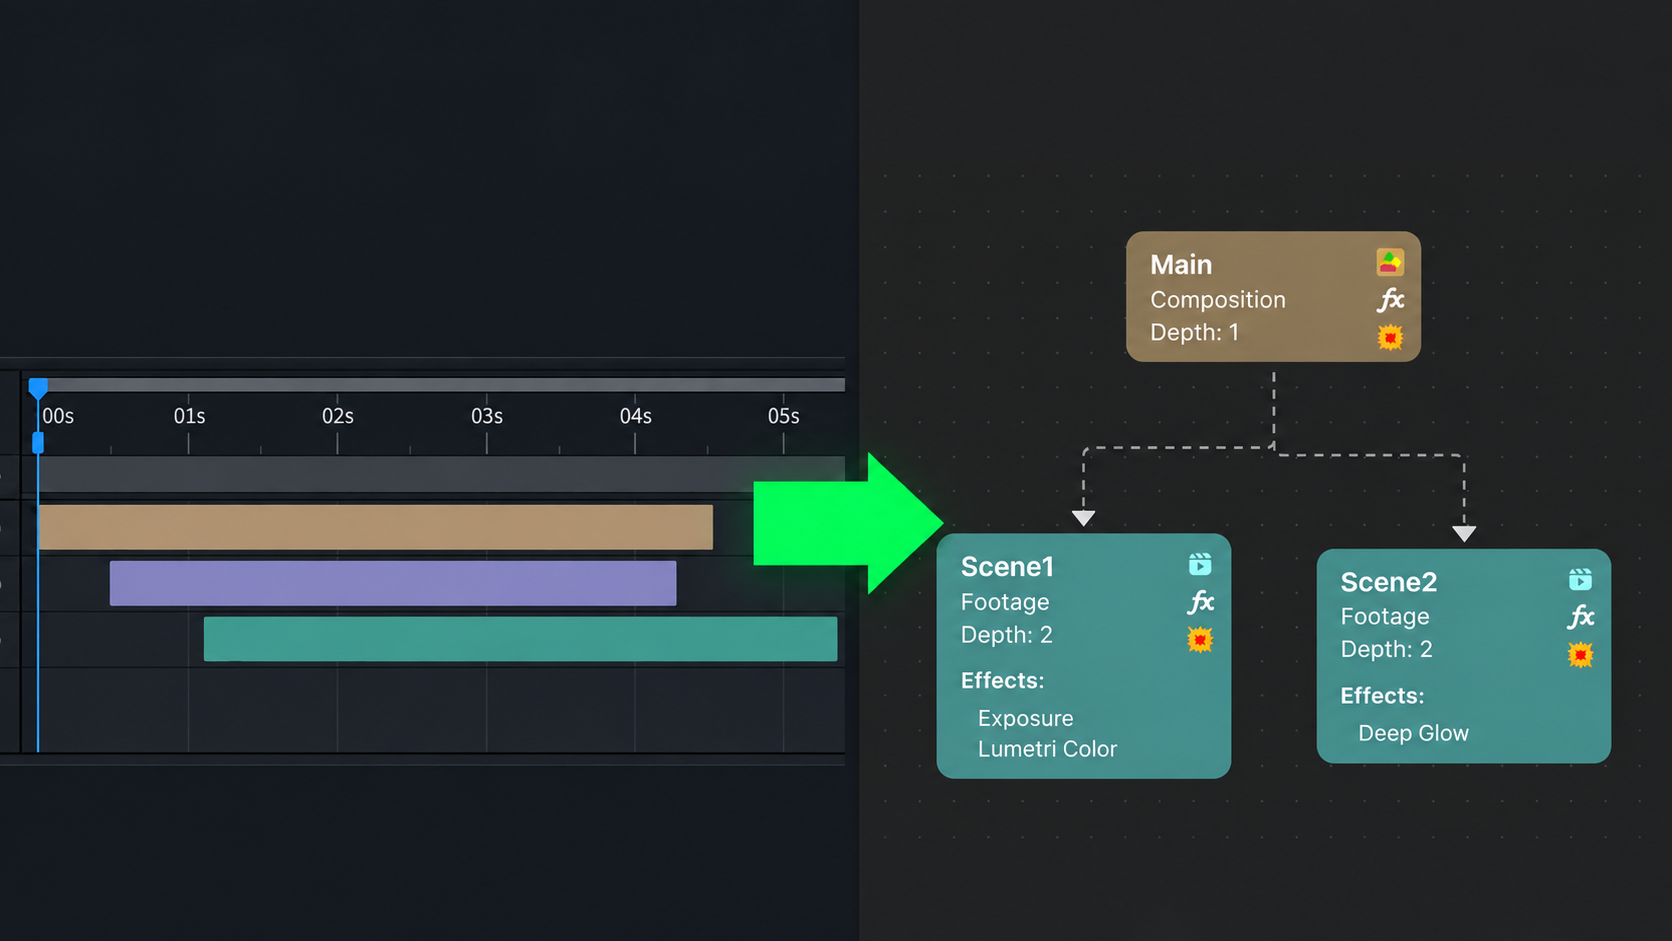
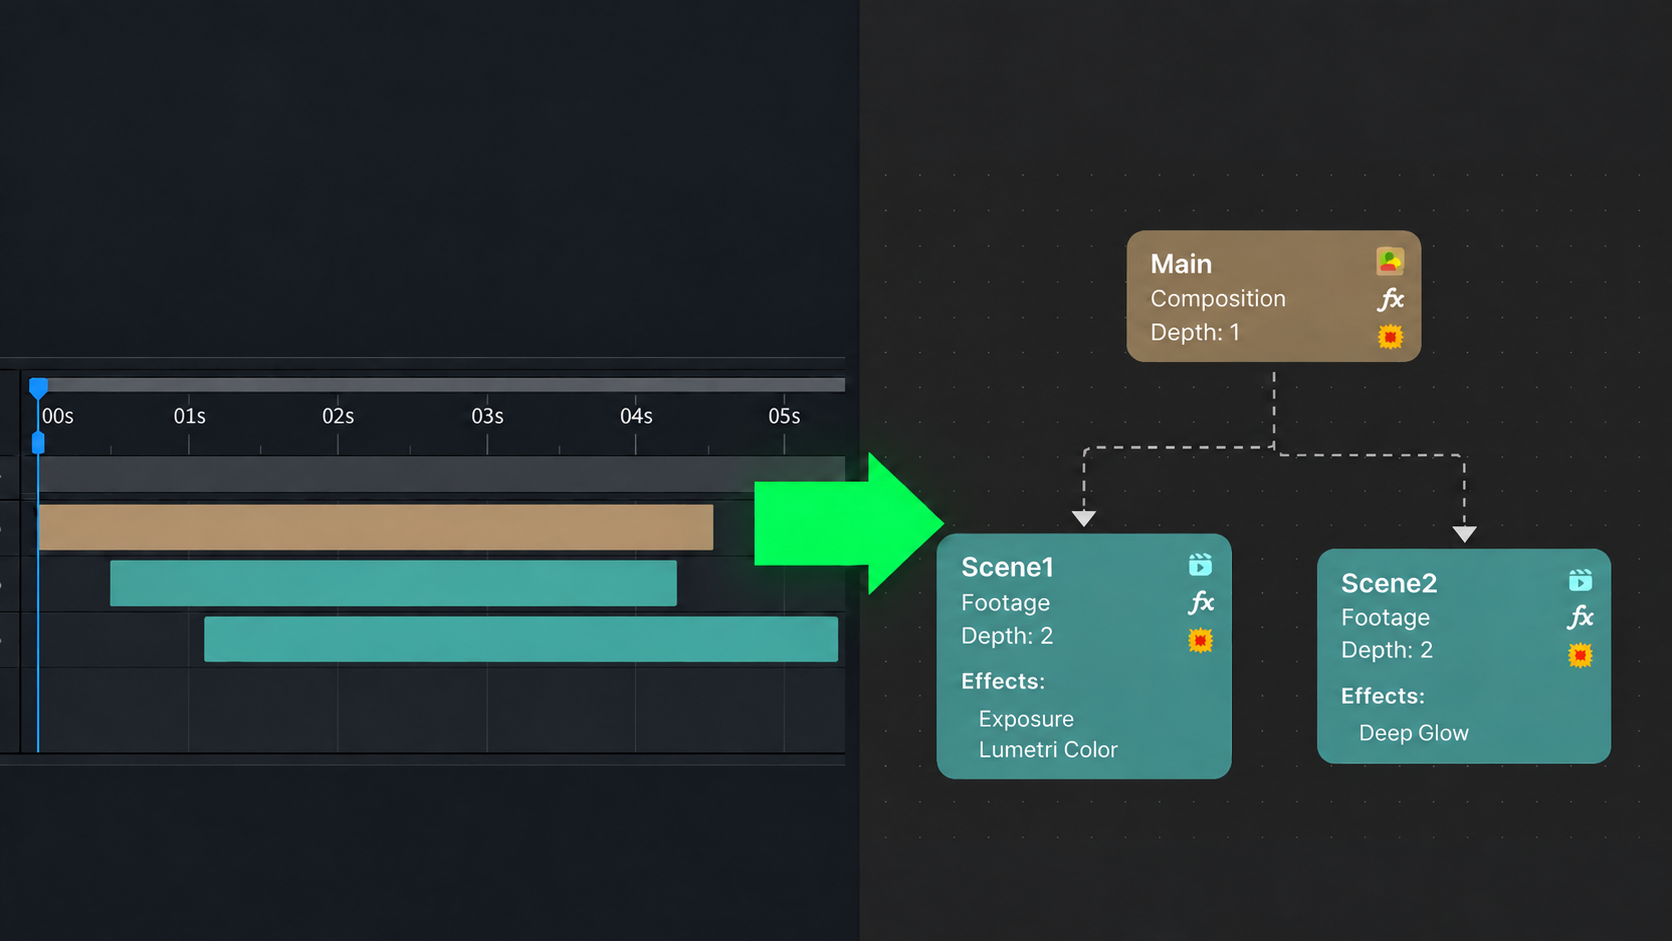
Updated xray visual

diff --git a/README.md b/README.md
@@ -1,5 +1,5 @@
 <p align="center">
-  <img src="docs/assets/xray_logo.png" alt="X-Ray logo">
+  <img src="docs/assets/xray_logo.png" alt="X-Ray logo" width="600">
 </p>
 
 <p align="center">
@@ -26,6 +26,7 @@
   - [Installation](#installation)
   - [Usage](#usage)
 - [Tech Stack](#tech-stack)
+- [Project Structure](#project-structure)
 - [Current Limitations](#current-limitations)
 - [Found a Bug?](#found-a-bug)
 
@@ -96,6 +97,36 @@ For a full demonstration, watch the [Demo Video](https://www.youtube.com/).
 | Dagre                        | Calculates automatic vertical and horizontal graph layouts                               |
 | Vite                         | Bundles the CEP frontend and development environment                                     |
 | Sass                         | Styles graph nodes, controls, menus, and the panel interface                             |
+
+## Project Structure
+
+```text
+X-Ray/
+├── .github/workflows/       # Automated release builds
+├── docs/                    # Documentation and assets
+├── src/
+│   ├── js/                  # React frontend (CEP panel)
+│   │   ├── components/
+│   │   ├── lib/
+│   │   ├── main/
+│   │   └── utils/
+│   ├── jsx/                 # ExtendScript backend (After Effects)
+│   │   ├── aeft/
+│   │   └── index.ts
+│   └── shared/              # Shared TypeScript types
+├── cep.config.ts            # CEP configuration
+├── vite.config.ts           # Frontend build configuration
+├── vite.es.config.ts        # ExtendScript build configuration
+└── package.json
+```
+
+The After Effects side discovers the active composition network and constructs
+the graph under `src/jsx/aeft`. Bolt's `evalTS()` bridge sends that graph to the
+React frontend, where React Flow renders it and Dagre calculates its layout.
+Shared graph interfaces in `src/shared` keep both sides type-safe.
+
+The generated extension is written to `dist/cep`. Build output and the generated
+CSXS manifest should not be edited manually.
 
 ## Current Limitations
 
